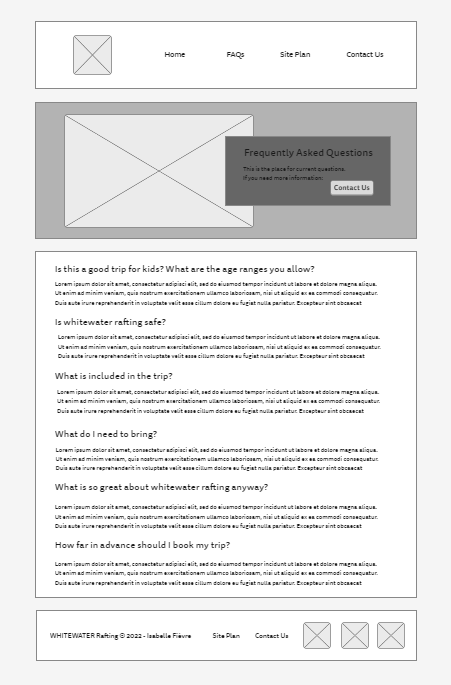
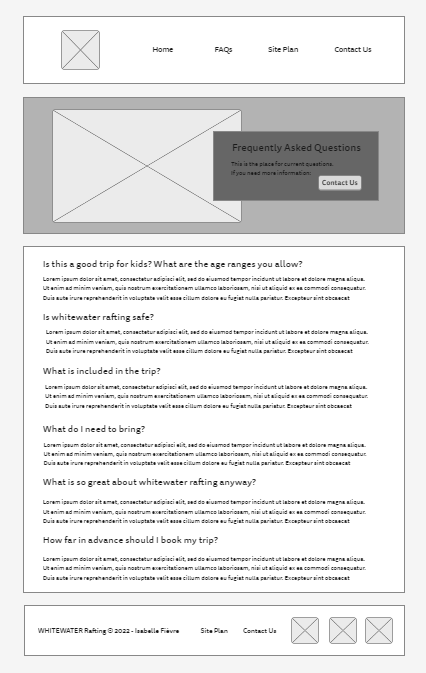
changes wwr

diff --git a/wwr/index.html b/wwr/index.html
@@ -15,11 +15,16 @@
             </a>
             <nav>
                 <a href="index.html">Home</a>
-                <a href="#">FAQs</a>
+                <a href="faqs.html">FAQs</a>
                 <a href="site-plan-rafting.html">Site Plan</a>
                 <a href="contactus.html">Contact Us</a>
             </nav>
         </header>
+        <section class="msg">
+            <h2>More Than Just Fun</h2>
+            <p>Enjoy the breathtaking scenery. From valleys, meadows, canyons, and high peaks; it's way more than just the water. It's a great way to get away from it all and relax amongst all the beauty of the great outdoors.</p>
+            <a class="join" href="rivers.html">Join Us</a>
+        </section>
         <div id="hero">
             <div id="hero-box">
                 <img id="hero-img" src="images/hero.png" alt="People enjoying WHITEWATER rafting"> 
@@ -50,11 +55,7 @@
             </section>
             <div id="background"></div>
             <img class="mountains" src="images/mountains.jpg" alt="Misty mountains">
-            <section class="msg">
-                <h2>More Than Just Fun</h2>
-                <p>Enjoy the breathtaking scenery. From valleys, meadows, canyons, and high peaks; it's way more than just the water. It's a great way to get away from it all and relax amongst all the beauty of the great outdoors.</p>
-                <a class="join" href="rivers.html">Join Us</a>
-            </section>
+            
         </main>
         <footer>
             <p>WHITEWATER Rafting &copy; 2022 - Isabelle Fièvre</p>
